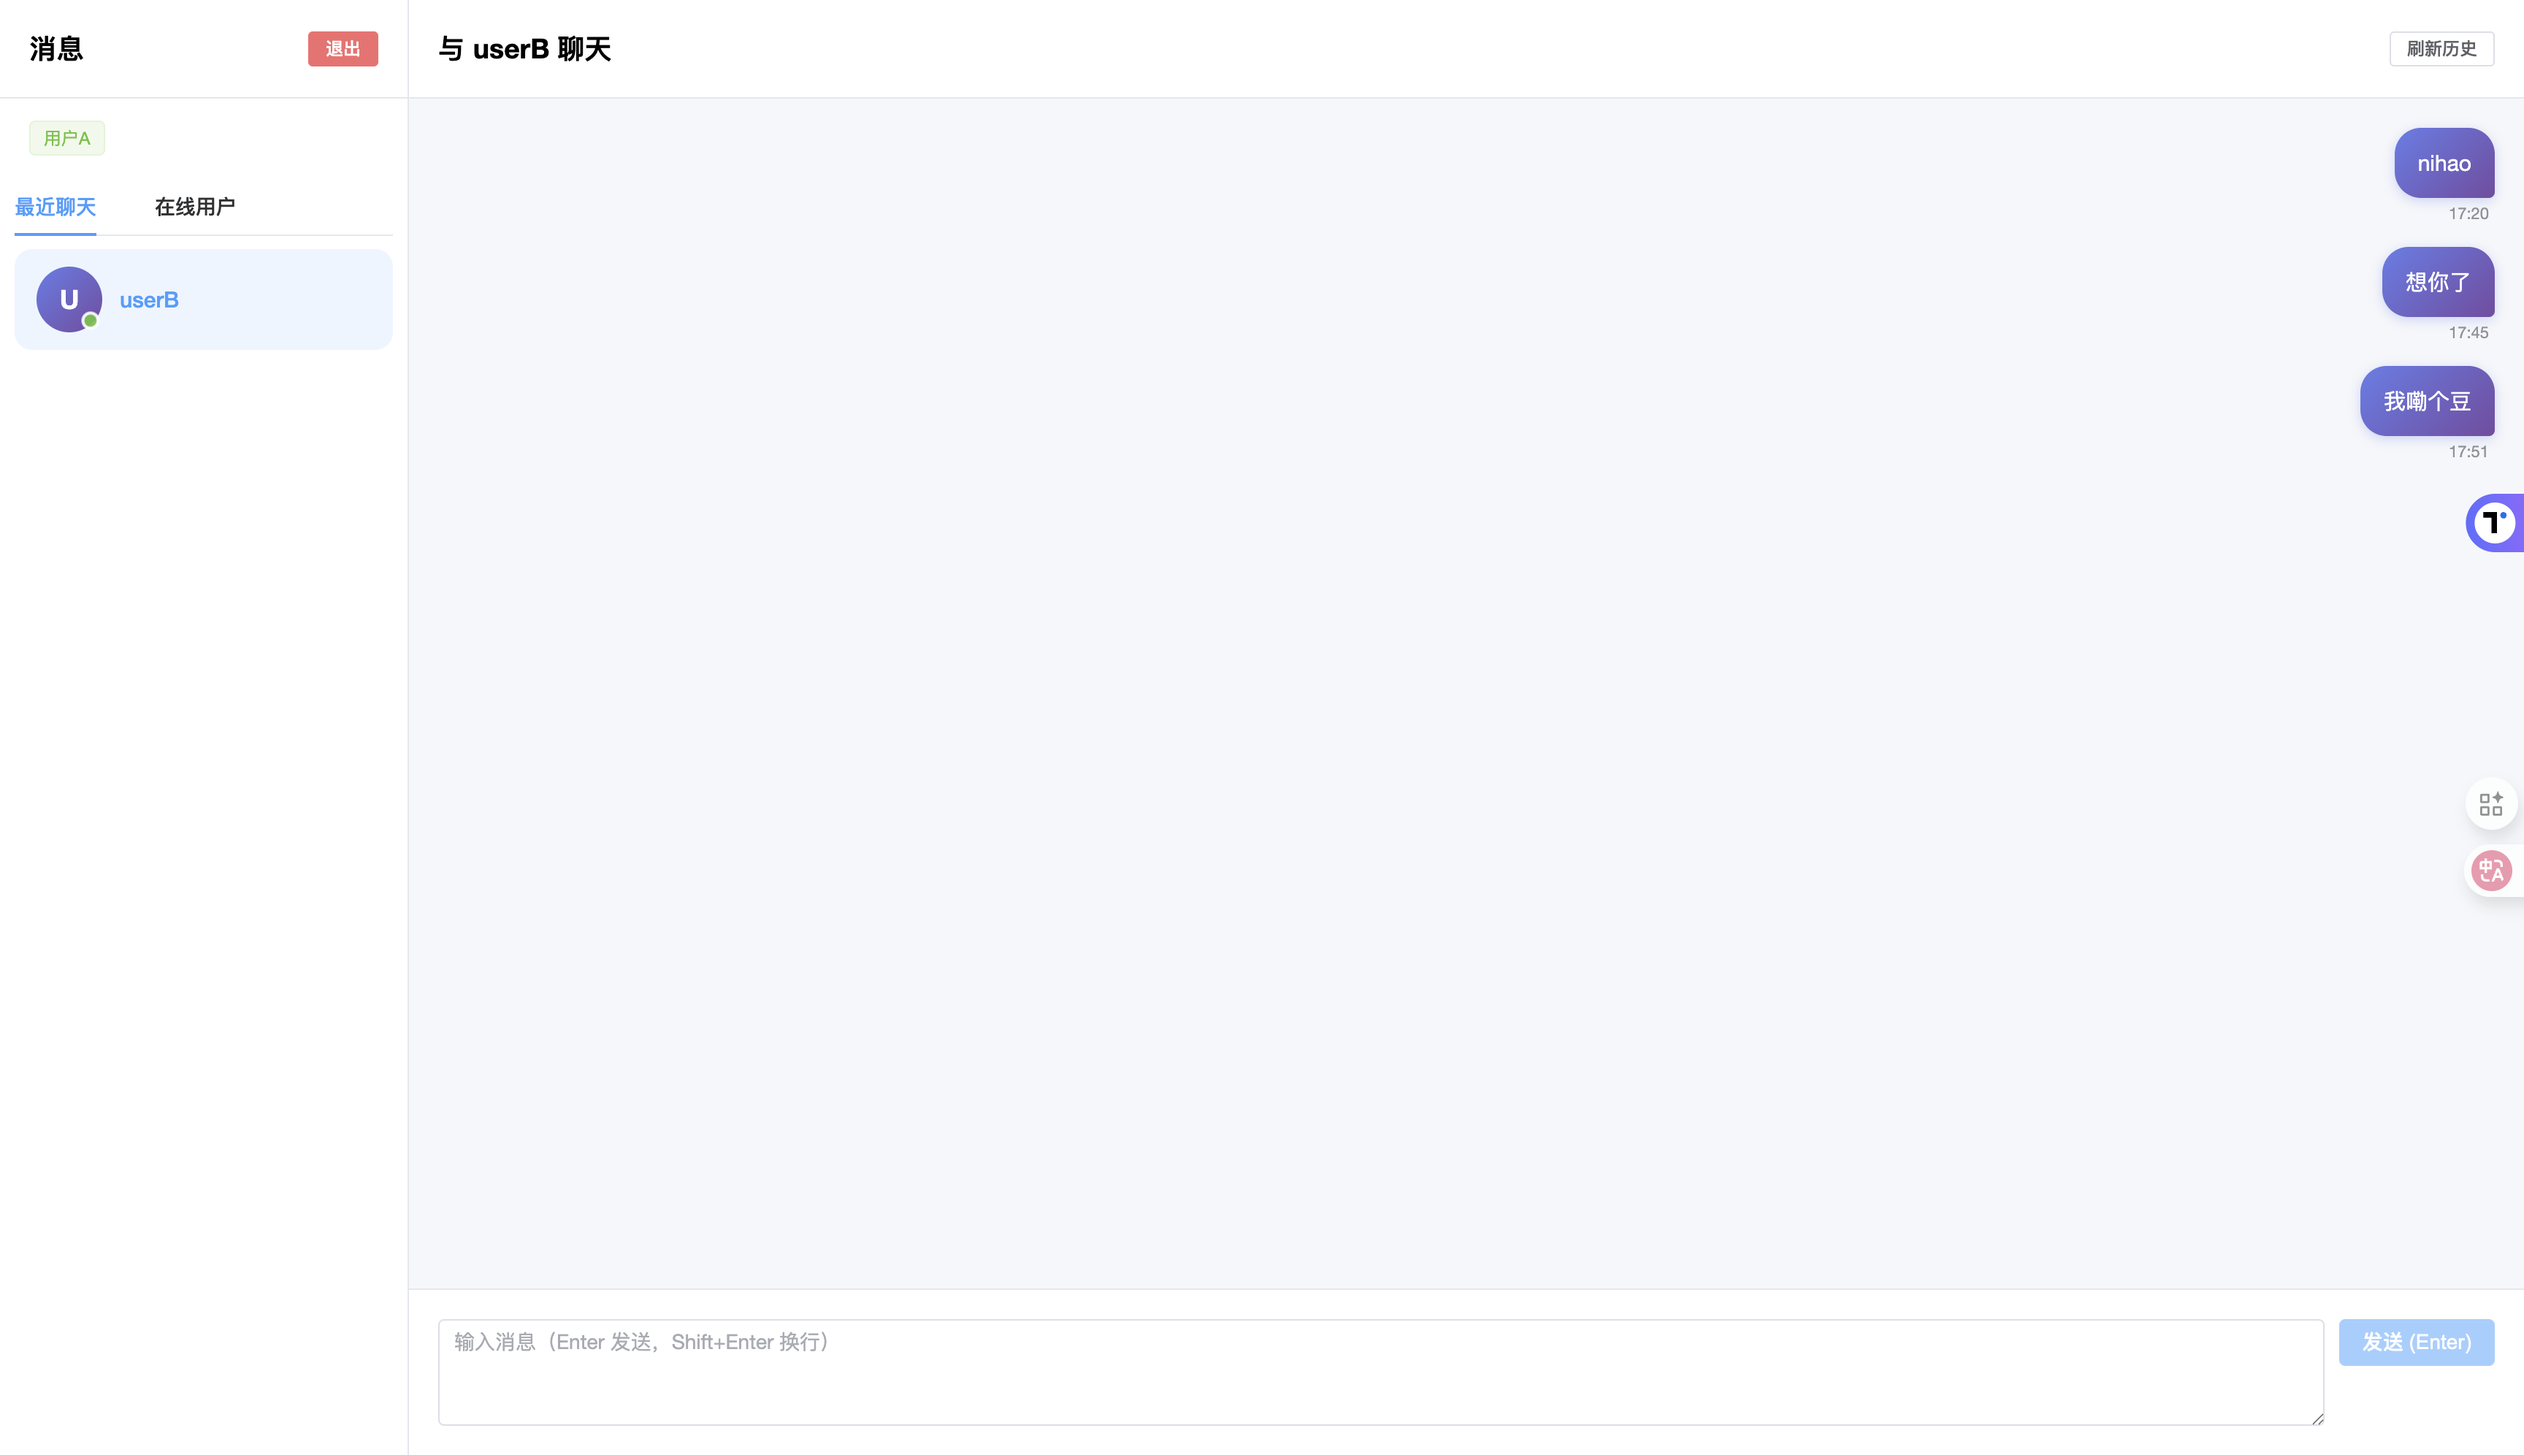
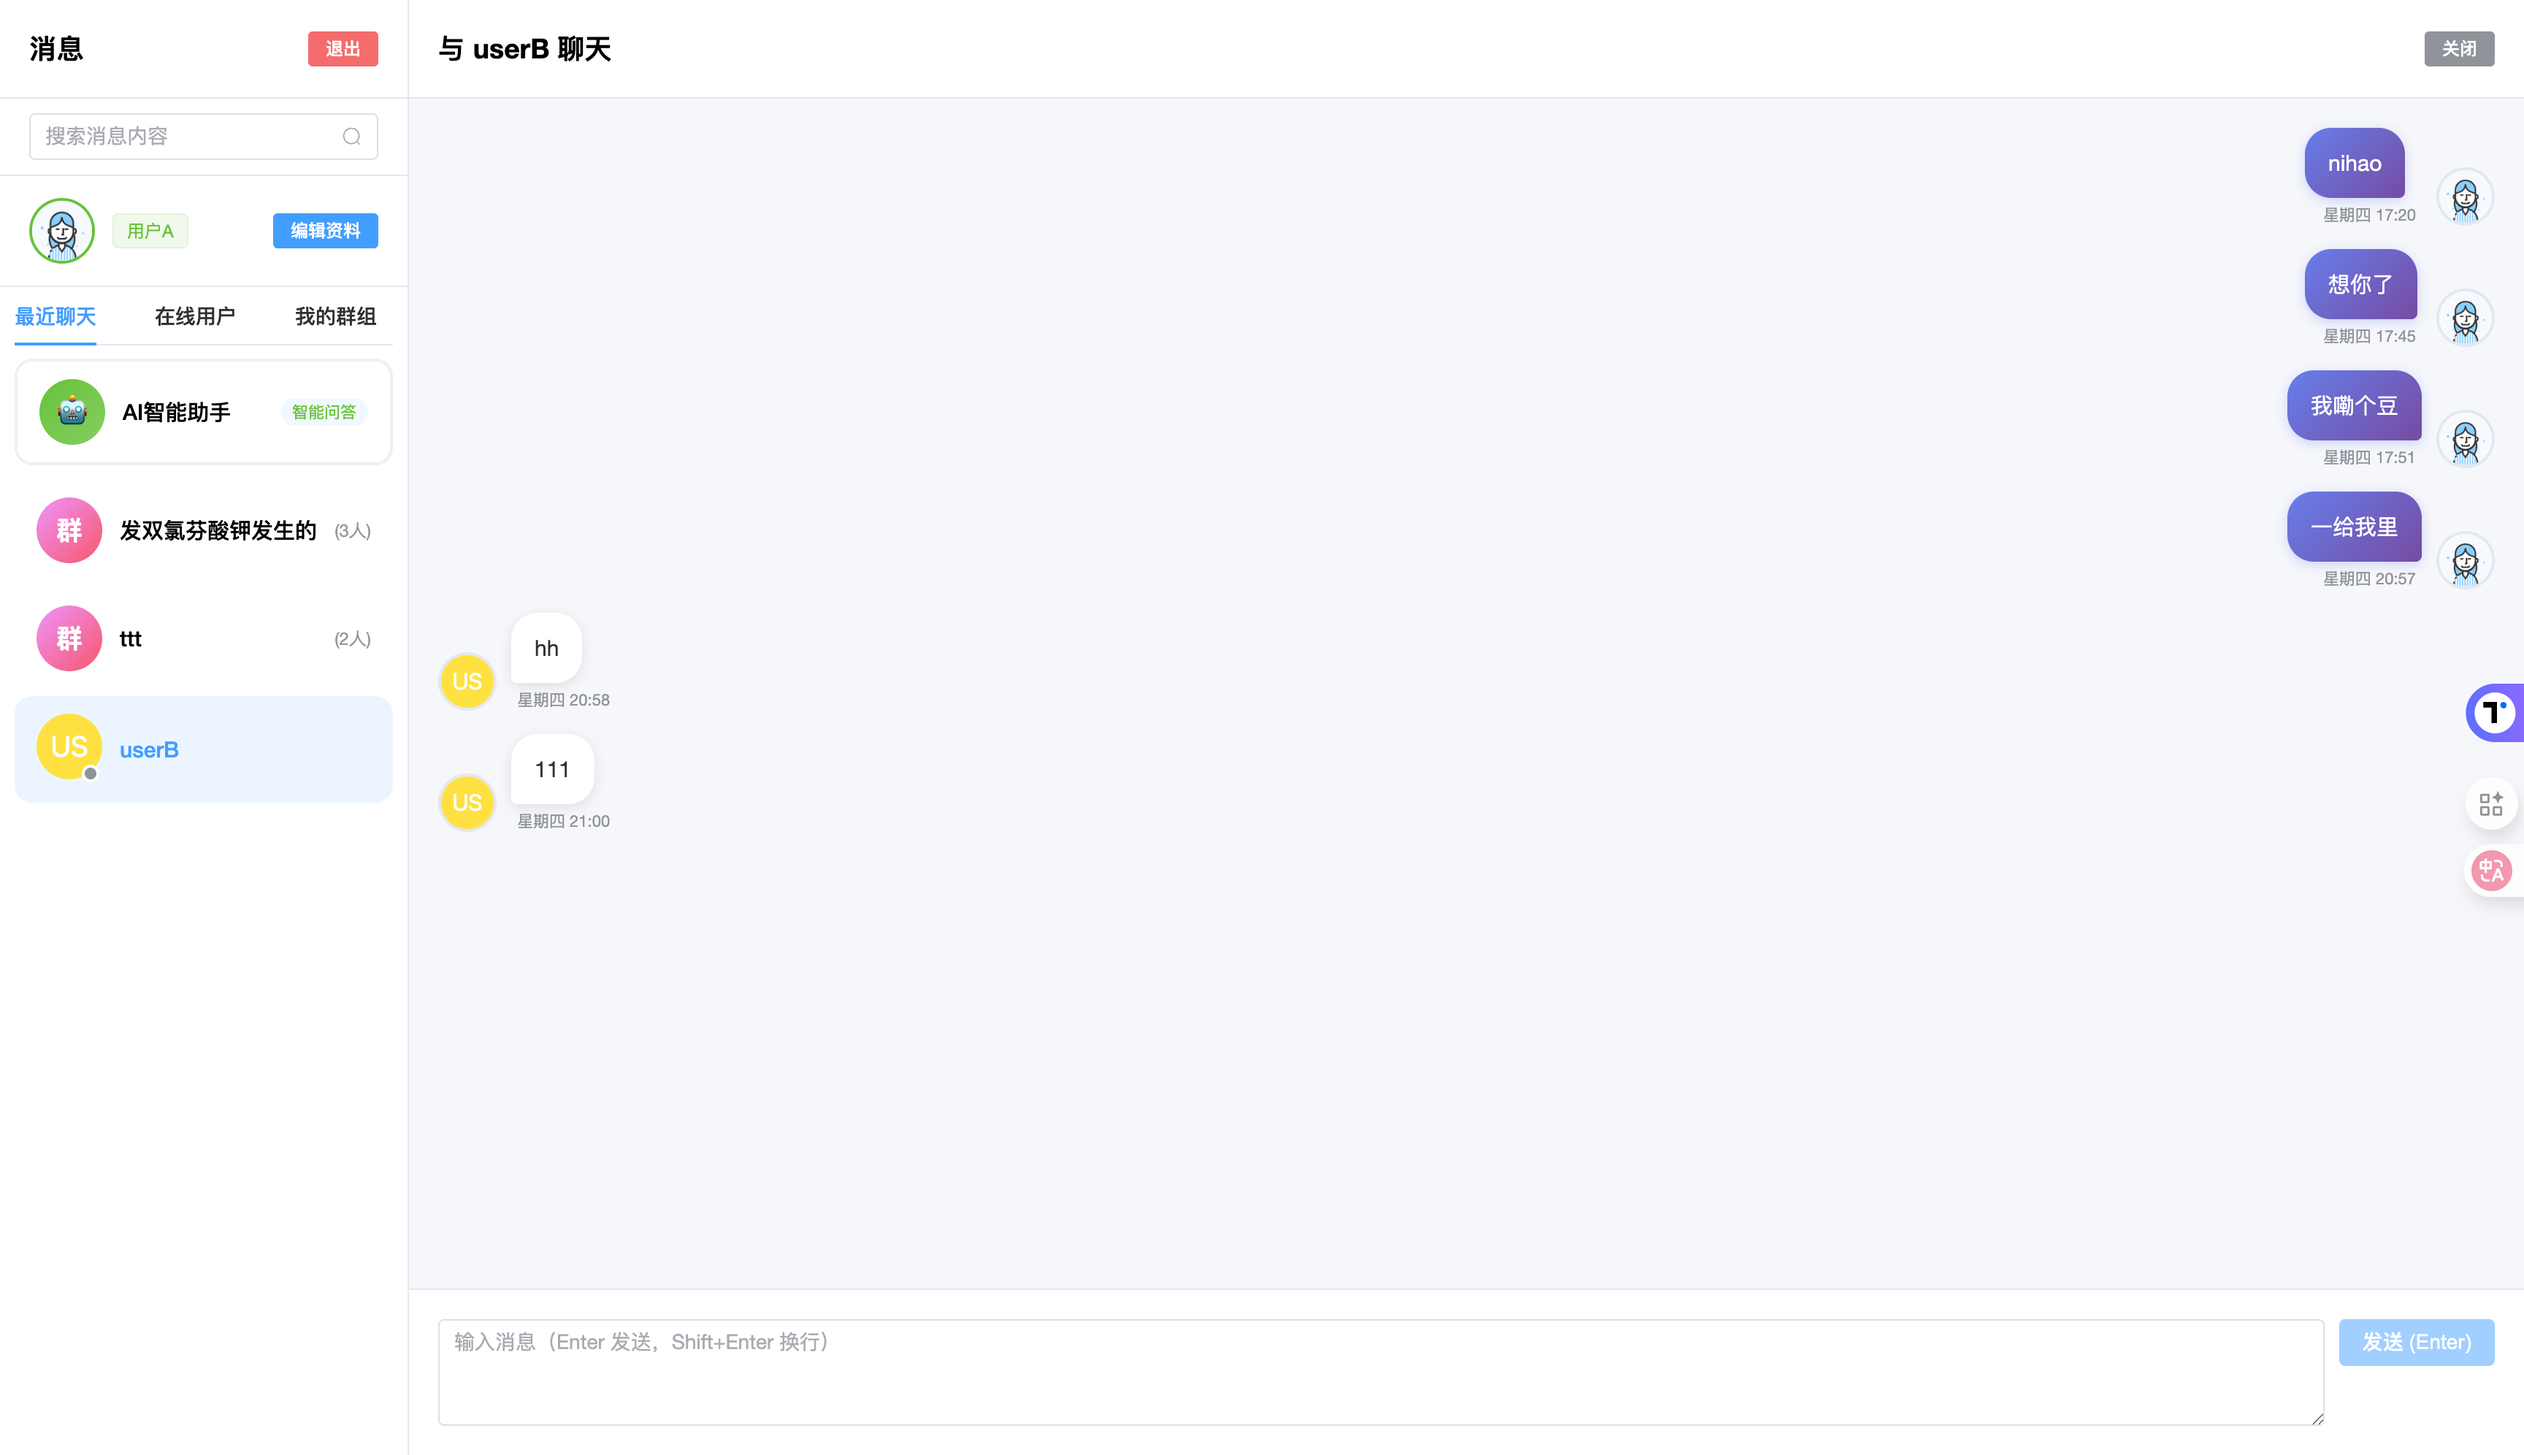
修改对话框样式

diff --git a/frontend/src/views/Chat.vue b/frontend/src/views/Chat.vue
@@ -1704,7 +1704,6 @@
   
   .message-item {
     margin-bottom: 16px;
-    max-width: 70%;
     display: flex;
     align-items: flex-end;
     gap: 10px;
@@ -1744,7 +1743,8 @@
   .message-bubble {
     display: inline-flex;
     flex-direction: column;
-    max-width: 100%;
+    max-width: calc(100vw - 450px);
+    min-width: 80px;
   }
   
   .message-sender {
@@ -1752,15 +1752,21 @@
     color: #999;
     margin-bottom: 4px;
     padding: 0 4px;
+    width: fit-content;
   }
   
   .message-content {
     padding: 12px 16px;
     border-radius: 18px;
     word-break: break-word;
+    word-wrap: break-word;
+    overflow-wrap: break-word;
+    white-space: pre-wrap;
     line-height: 1.6;
     font-size: 15px;
     position: relative;
+    width: fit-content;
+    max-width: 100%;
   }
   
   .message-item.sent .message-content {
@@ -1782,14 +1788,17 @@
     color: #909399;
     margin-top: 4px;
     padding: 0 4px;
+    width: fit-content;
   }
   
   .message-item.sent .message-time {
     text-align: right;
+    align-self: flex-end;
   }
   
   .message-item.received .message-time {
     text-align: left;
+    align-self: flex-start;
   }
   
   .message-input {
